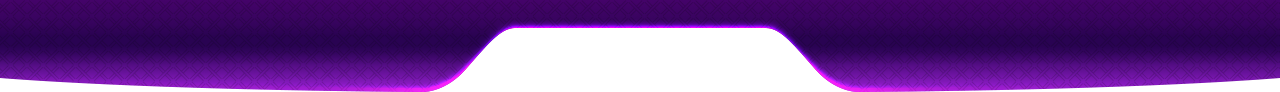
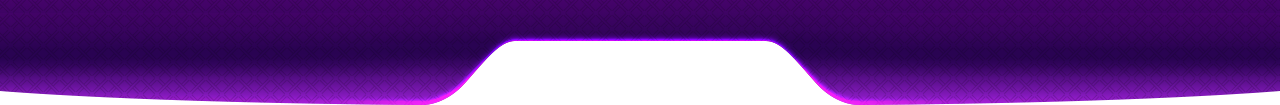
fix b

diff --git a/Assets/Scripts/Popups/GroupMenuView.cs b/Assets/Scripts/Popups/GroupMenuView.cs
@@ -76,7 +76,7 @@ public class GroupMenuView : BaseView
         // urlRule = urlRule.Replace("%language%", language);
         // urlRule = urlRule.Replace("%language%", language);
         // https://conf.topbangkokclub.com/rule/index.html?gameid=%gameid%&language=%language%&list=true
-        if (Constants.INGAME_RULES_ID.Contains(curGameId))
+        if (Constants.INGAME_RULES_ID.Contains(Config.currentGameId))
         {
             UIManager.Instance.OpenRule();
         }
